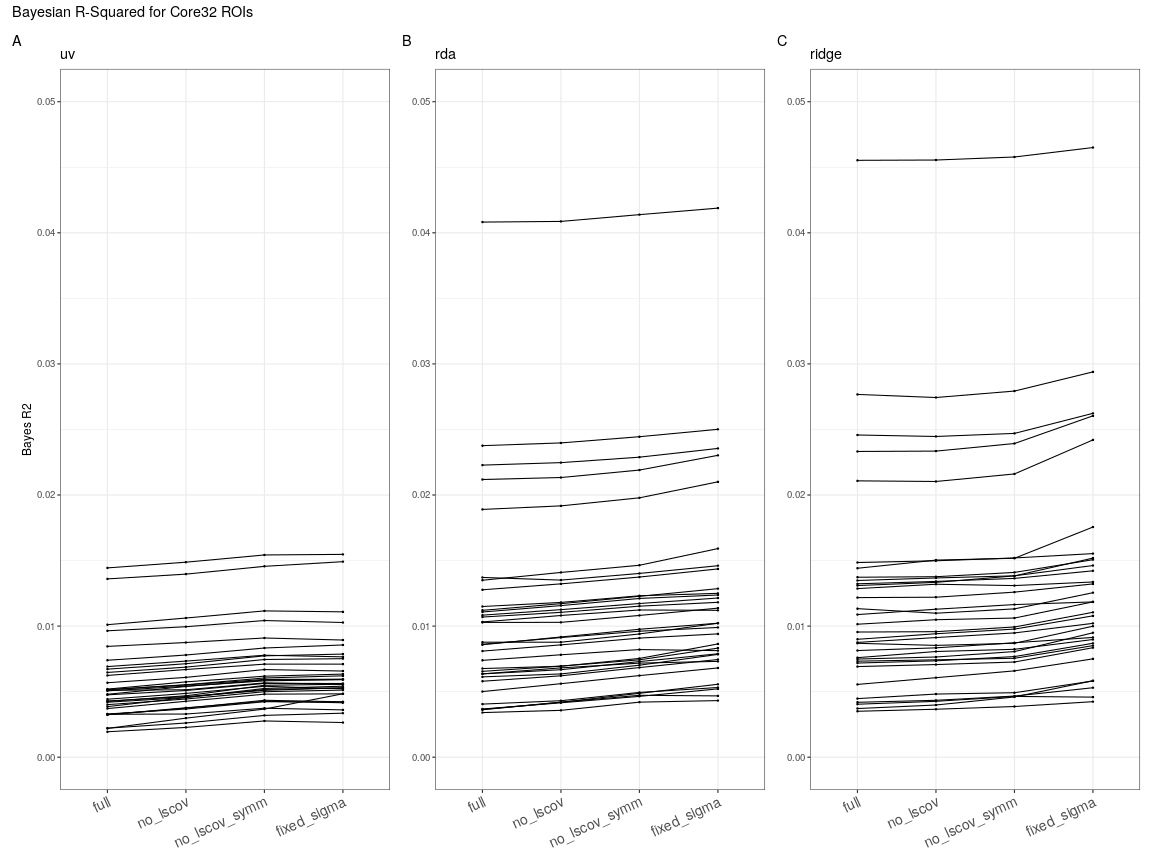
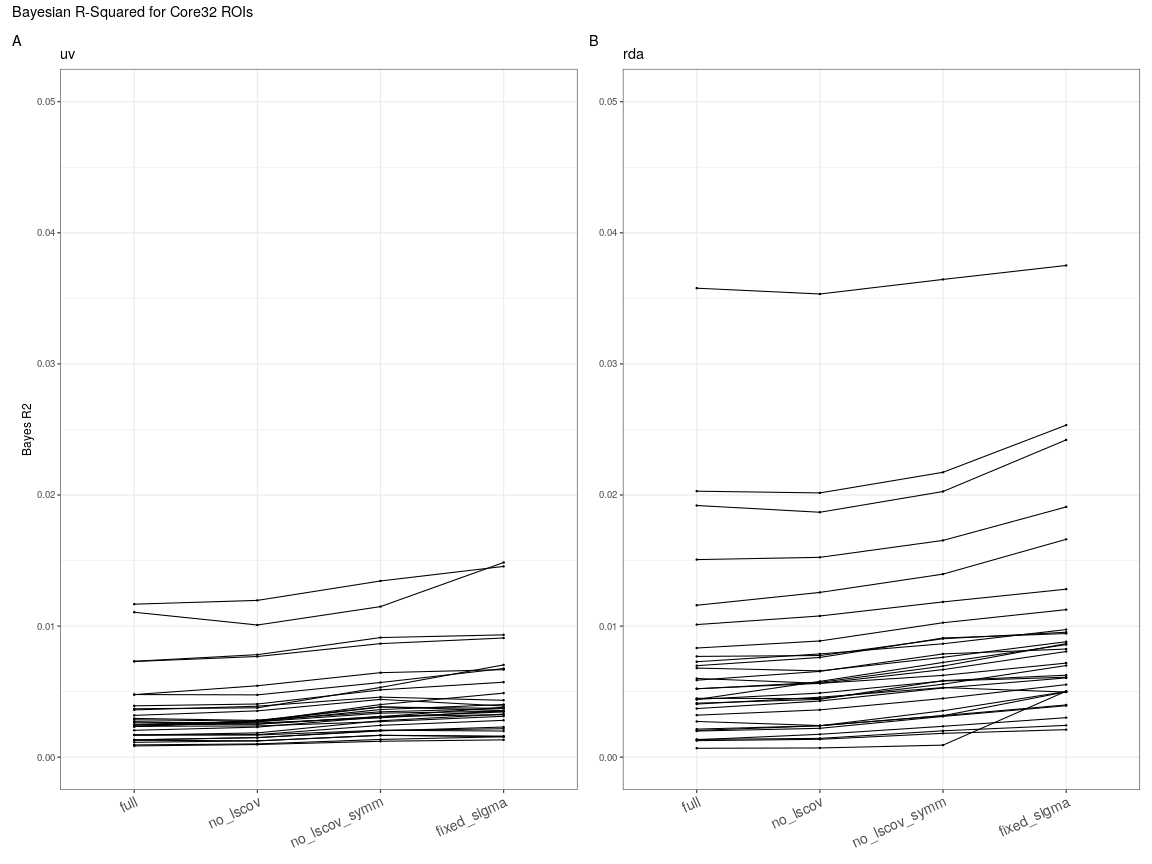
New results with unduplicated data

diff --git a/reports/model_comparison.md b/reports/model_comparison.md
@@ -15,29 +15,79 @@ output:
 
 ## Fitting Statistics
 
-First we compare the Bayesian R-squared of the models (see [here](https://paul-buerkner.github.io/brms/reference/bayes_R2.brmsfit.html)). Each line is for one ROI. The higher the value, the better the fit.
+First we check the outliers in the data by the fitting statistics:
 
-![plot of chunk Bayes-R2](figure/Bayes-R2-1.png)
+![plot of chunk outliers](figure/outliers-1.png)
+
+Apparently there are two outliers with unexpectedly high Bayes_R2 but unexpectedly low elpd_loo (which is strange - need to check the data). For the sake of consistency, we decided to remove the two regions associated with the outliers from the data:
+
+
+```r
+outlier_dat <- dat %>% filter(Term == "elpd_loo", Estimate < -60000)
+outlier_dat
+```
+
+```
+## # A tibble: 2 x 16
+##   model         response session  Term     Estimate Est.Error CI.Lower CI.Upper Q.Lower Q.Upper   MAP  rhat ess_bulk ess_tail Grouping region                     
+##   <ord>         <ord>    <chr>    <chr>       <dbl>     <dbl>    <dbl>    <dbl>   <dbl>   <dbl> <dbl> <dbl>    <dbl>    <dbl> <chr>    <chr>                      
+## 1 no_lscov_symm rda      baseline elpd_loo  -65709.      702.       NA       NA      NA      NA    NA    NA       NA       NA <NA>     17Networks_LH_ContA_PFClv_2
+## 2 no_lscov_symm rda      baseline elpd_loo  -77219.      556.       NA       NA      NA      NA    NA    NA       NA       NA <NA>     17Networks_RH_ContA_PFCl_3
+```
+
+```r
+outliers <- outlier_dat$region
+dat <- dat %>% filter(!region %in% .env$outliers)
+```
+
+Then we compare the Bayesian R-squared of the models (see [here](https://paul-buerkner.github.io/brms/reference/bayes_R2.brmsfit.html)). Each line is for one ROI. The higher the value, the better the fit.
+
 
 ```
 ## # A tibble: 4 x 2
 ##   model         mean_R2
 ##   <ord>           <dbl>
-## 1 fixed_sigma   0.0108 
-## 2 no_lscov_symm 0.0103 
-## 3 no_lscov      0.00982
-## 4 full          0.00951
+## 1 fixed_sigma   0.00722
+## 2 no_lscov_symm 0.00636
+## 3 no_lscov      0.00544
+## 4 full          0.00524
 ```
+
+![plot of chunk Bayes-R2](figure/Bayes-R2-1.png)
 
 We can see that generally, fixed_sigma > no_lscov_symm > no_lscov > full.
 
 Next we show the difference in the expected log predictive density (elpd) estimated by leave-one-out (loo) cross-validation across models (see [here](https://mc-stan.org/loo/reference/loo.html)). The higher the value, the better the fit. Here "full" is used as the base level.
 
-![plot of chunk diff-elpd-loo](figure/diff-elpd-loo-1.png)
 
 ```
-## [1] "Range of the difference in elpd_loo between fixed_sigma and full models: (-1208.55845425573, -45.5684478145631)"
+## [1] "Range of the difference in EPLD_LOO between different models:"
 ```
+
+```
+##                                 Q0          Q5         Q25         Q50         Q75         Q95       Q100
+## no_lscov - full         -0.2954626    1.930878    3.140695    4.526943    5.541599    8.118259    8.74665
+## no_lscov_symm - full     3.1950237    6.328993    9.974277   13.406579   16.213133   18.726019   21.18368
+## fixed_sigma - full   -1091.5676938 -841.875589 -537.705544 -460.460139 -360.815230 -243.393282 -211.90811
+```
+
+```
+## Warning: Removed 30 row(s) containing missing values (geom_path).
+```
+
+```
+## Warning: Removed 30 rows containing missing values (geom_point).
+```
+
+```
+## Warning: Removed 32 row(s) containing missing values (geom_path).
+```
+
+```
+## Warning: Removed 32 rows containing missing values (geom_point).
+```
+
+![plot of chunk diff-elpd-loo](figure/diff-elpd-loo-1.png)
 
 We can see that "no_lscov_symm" is the best and "fixed_sigma" is much worse than others. Results using [waic](https://mc-stan.org/loo/reference/waic.html) instead of `loo` are almost identical.
 
